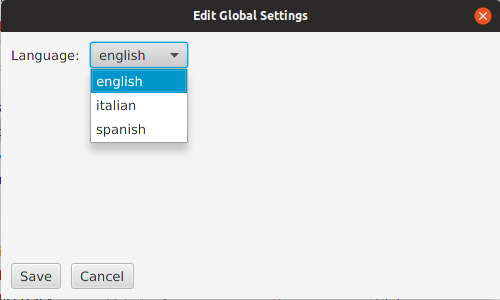
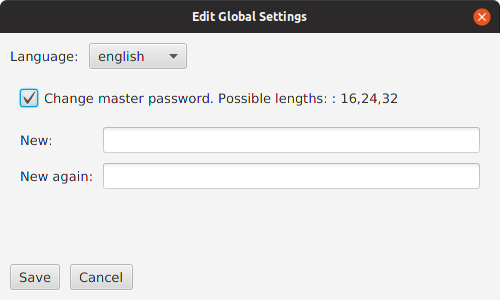
Updated documentation

diff --git a/docs/Master-Password.md b/docs/Master-Password.md
@@ -1,0 +1,24 @@
+---
+
+layout: default
+title: Master Password
+resource: true
+categories: [Other]
+
+---
+
+## Master password
+
+To connect to databases you need passwords and DBTarzan saves the databases' passwords in the **connections.config** file, together with the other connection data (driver, url, user, etc.).
+Passwords are saved encrypted using the [AES](https://en.wikipedia.org/wiki/Advanced_Encryption_Standard) (AES/CBC/PKCS5PADDING) algorithm.
+Before version 1.19 the safety of the password encryption was quite limited: the encryption key to encrypt/decrypt these passwords was stored in code.
+To solve once for all this problem, version 1.19 gives the possibility to [choose](Global-settings) **your own encryption key** (called in the UI **master password**) to encrypt/decrypt all these passwords.
+
+The master password is not stored anywhere, what is stored in the global configuration file is what we call **verification key**.
+The verification key is the result of encoding a **specific password** (in the code) using the given encryption key. If decoding the verification key using the encryption key gives the original specific password, the encryption key is correct and can be used to decrypt the databases' passwords.
+
+In other words, the verification key is used to test the encryption key correctness before it gets used to decrypt the databases' passwords. If the encryption key is incorrect, testing it against the verification key results in a unambiguous error message. 
+
+Changing the master password results in changes in the connections.config file, because the passwords are re-encrypted with the new master password.
+Therefore please, before you change the master password, **make a copy of the connections.config file**, so that you are able to come back to the previous version of the master password (or no master password if you was not using one) if something goes wrong.
+Once you are confortable with the new master password, remove the connections.config copy.

diff --git a/docs/Connections-editor.md b/docs/Connections-editor.md
@@ -12,7 +12,7 @@ categories: [GUI]
 DbTarzan includes a connection editor. With it it is possible to add, update and remove connections to databases.
 The editor actually just changes the [connections.config file](The-database-connections-configuration-file), which is used by dbtarzan to display the list of available database connections.
 
-![Connections editor](images/editConnections.jpeg)
+![Connections editor](images/editConnections.png)
 
 To open the editor, in the "Settings" menu on the top choose "Edit Connections".
 The editor displays on the right side a list of database connections. 
@@ -23,8 +23,11 @@ Once a connection is chosen on the list, the right side of the editor shows the 
 * **Driver**, the driver class used to connect to the database, included in the jar file.
 * **User and password**, difining the login account to connect to the database. 
 * **Schema**. For databases that require the indication of a schema when connecting to them, like for example Oracle and SQL server.
+
+And optionally (generally not needed):
 * **Delimiters**. If the database contains tables or columns that have as name reserved words in the database (like GROUP or RULE), queries don't work unless these names are delimited with special characters. These characters vary between databases, but they are either double quotes or squared brackets. 
- 
+* **Max rows**. The number of rows resulting from queries are limited to 500 by default: you don't want to use local memory, network and database resources to read many table rows, not to mention the queries performance. If you want to see other rows, it is generally enough to change the query parameters or the order of the resulting rows. But there are some cases in which you want to have a larger rows number limit. 
+ * **Catalog**. similar concept to the schema, used to identify a specific database, added to solve issue [#78](https://github.com/aferrandi/dbtarzan/issues/78).
 
 
 To **update** the definition of a database connection:

diff --git a/docs/Usage.md b/docs/Usage.md
@@ -23,7 +23,7 @@ The list of tables can be [filtered](./Tables-Names-Filter). Open a table double
 
 ![Selection](images/selection.png)
 
-If you select some rows (like in the previous image) and double-click on a **foreign key**, you open the table related to the original one through the foreign key, showing the rows related to the originally selected rows:
+If you select some rows (like in the previous image) and double-click on a **foreign key**, you open the table related to the original one through the foreign key, showing the rows related to the originally selected rows. Keeping the Ctrl button pressed when double-clicking the foreign key the current tab is closed when opening the new one.
 
 ![Derived](images/derived.png)
 

diff --git a/docs/Global-settings.md b/docs/Global-settings.md
@@ -17,6 +17,8 @@ The following dialog opens:
 
 To change the application language (menus, buttons, log) choose the language in the **Language** combo.
 
+To change the [master password](Master-Password) enable the checkbox **Change master password**, If a master password already exists it has to be written in the **Original master password** field, the new master password has to be written twice in the **New** and **New again** fields. 
+
 When you are finished press the the **Save** button. If you confirm that you want to save, the changes get saved. 
 The changes will be operational after you restart the application.
 
